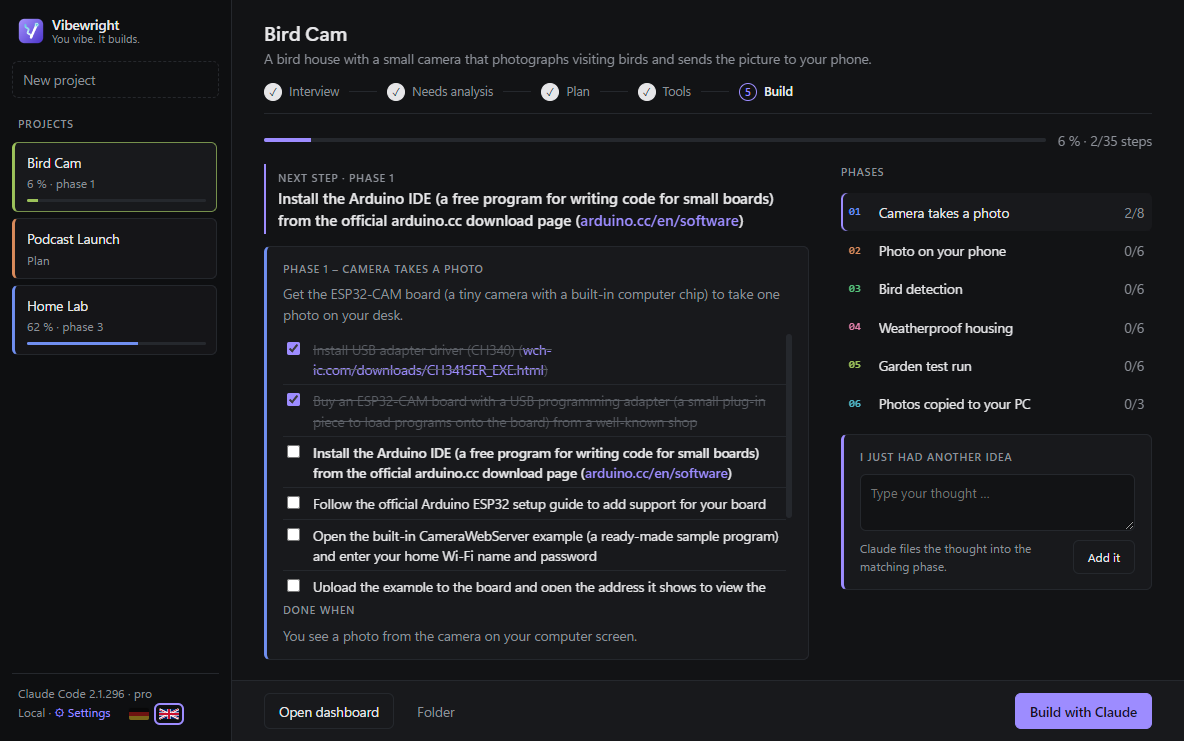
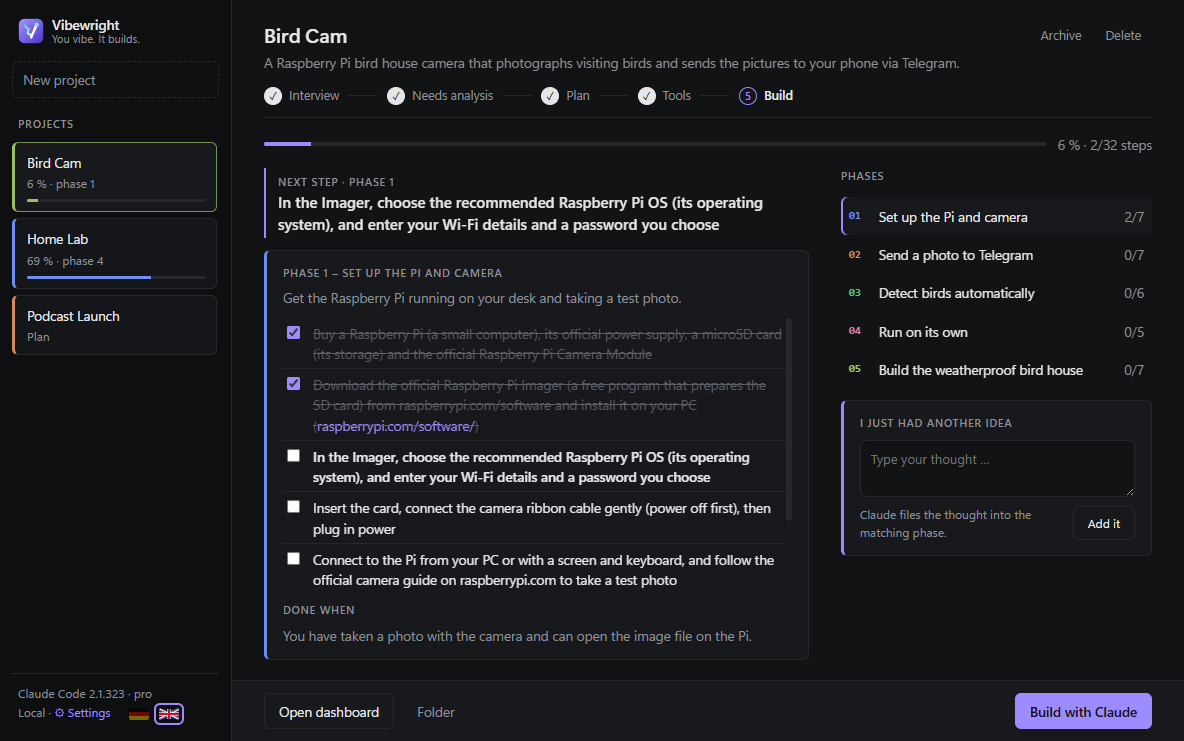
Neue Screenshots; englische Phasen-Details: Aufwand und Bereich übersetzt

diff --git a/app/core.js b/app/core.js
@@ -448,7 +448,7 @@ async function analyse(st, wunsch) {
 async function plan(st, wunsch) {
   const prompt = wunsch
     ? `Änderungswunsch zum Plan: ${wunsch}\nGib den vollständigen überarbeiteten Plan zurück.`
-    : `Die Bedarfsanalyse ist freigegeben. Schritt: Plan mit 3–6 Phasen. Phase 1 = kleinster lauffähiger Stand. Pro Phase: titel (kurz, ohne Doppelpunkt), bereich (ein Wort), aufwand, ziel (1 Satz), fertig_wenn (prüfbar), checkliste (3–8 konkrete Schritte). Schreibe alles auf Laien-Niveau passend zum Erfahrungsstand aus dem Interview: keine Befehle, Paketnamen oder Fachbegriffe ohne kurze Erklärung in Klammern; Programme werden über ihre offizielle Download-Seite installiert, nicht über winget oder die Kommandozeile. Dazu einzeiler: das Projekt in einem Satz (höchstens 120 Zeichen).`;
+    : `Die Bedarfsanalyse ist freigegeben. Schritt: Plan mit 3–6 Phasen. Phase 1 = kleinster lauffähiger Stand. Pro Phase: titel (kurz, ohne Doppelpunkt), bereich (ein Wort in der Sprache des Nutzers, z. B. Software oder Hardware), aufwand, ziel (1 Satz), fertig_wenn (prüfbar), checkliste (3–8 konkrete Schritte). Schreibe alles auf Laien-Niveau passend zum Erfahrungsstand aus dem Interview: keine Befehle, Paketnamen oder Fachbegriffe ohne kurze Erklärung in Klammern; Programme werden über ihre offizielle Download-Seite installiert, nicht über winget oder die Kommandozeile. Dazu einzeiler: das Projekt in einem Satz (höchstens 120 Zeichen).`;
   const d = await ask(st, prompt, S_PLAN);
   d.phasen.forEach((p) => (p.titel = sauber(p.titel)));
   st.plan = d;

diff --git a/app/i18n.js b/app/i18n.js
@@ -131,11 +131,11 @@ const UI_EN = {
 const UI_EN_MUSTER = [
   [/^Server antwortet mit Fehler (\d+)\.$/, 'Server responded with error $1.'],
   [/^Klonen fehlgeschlagen: (.*)$/s, 'Download failed: $1'],
-  [/^Runde (\d+) · Frage (\d+) von (\d+)( · mehrere möglich)?$/, (_m, a, b, c, d) => `Round ${a} · Question ${b} of ${c}${d ? ' · multiple allowed' : ''}`],
+  [/^Runde (\d+) · Frage (\d+) von (\d+)$/, 'Round $1 · Question $2 of $3'],
   [/^(\d+) % · (\d+)\/(\d+) Schritte$/, '$1 % · $2/$3 steps'],
   [/^(\d+) % · Phase (\d+)$/, '$1 % · phase $2'],
   [/^Nächster Schritt · Phase (\d+)$/, 'Next step · phase $1'],
-  [/^Phase (\d+) · (.*) · Aufwand (.*)$/, 'Phase $1 · $2 · effort $3'],
+  [/^Phase (\d+) · (.*) · Aufwand (.*)$/, (_m, a, b, c) => `Phase ${a} · ${b} · effort ${UI_EN[c] || c}`],
   [/^Claude Code installiert \((.*)\)$/, 'Claude Code installed ($1)'],
   [/^Angemeldet · (.*)$/, 'Signed in · $1'],
   [/^(\d+) Idee wartet auf das Ende des aktuellen Schritts$/, '$1 idea waits for the current step to finish'],

diff --git a/CHANGELOG.md b/CHANGELOG.md
@@ -11,6 +11,10 @@ All notable changes to Vibewright are listed here. Format based on [Keep a Chang
 - **Multiple-choice questions are easier to spot:** when several answers are allowed, every answer shows a checkbox and a highlighted badge "Multiple answers allowed" appears below the question.
 - **macOS: clean up after installing:** on the first start of a new version, Vibewright offers to eject the .dmg and move it to the Trash (asks once; nothing happens if you click *Keep*).
 
+### Fixed
+- English interface: the phase details showed the effort in German ("Effort mittel"), and Claude sometimes named the area of a phase in German.
+- Fresh screenshots in the README.
+
 ## [0.3.0] – 2026-11-09
 
 ### Added
